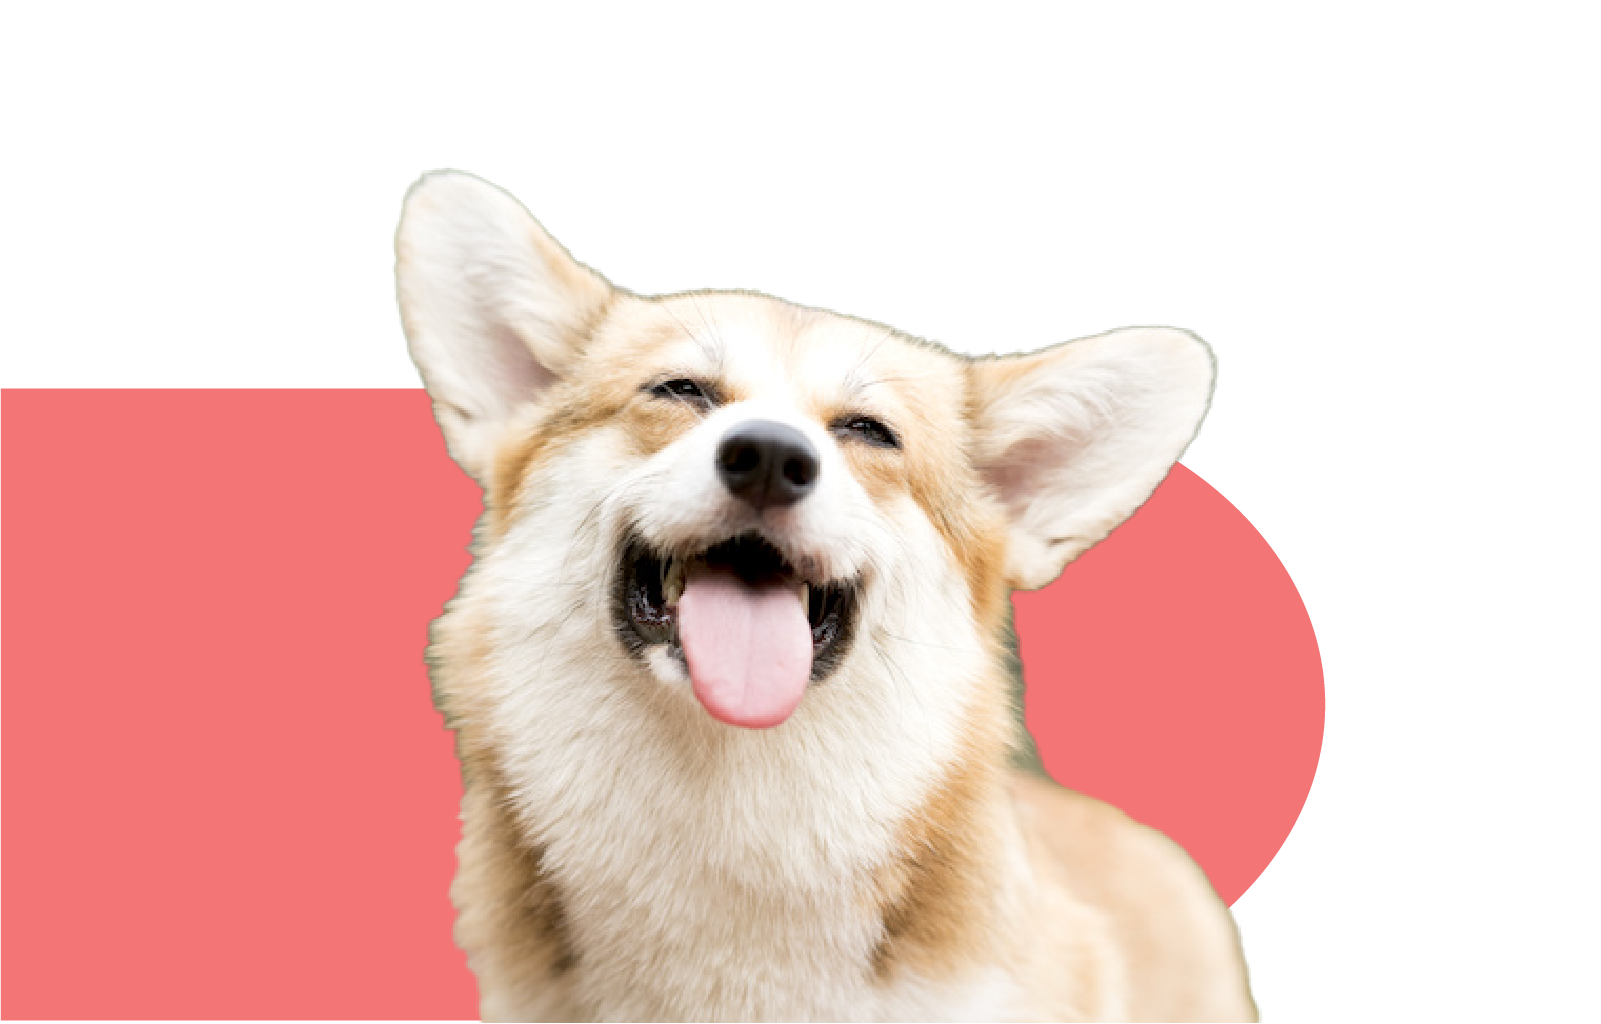
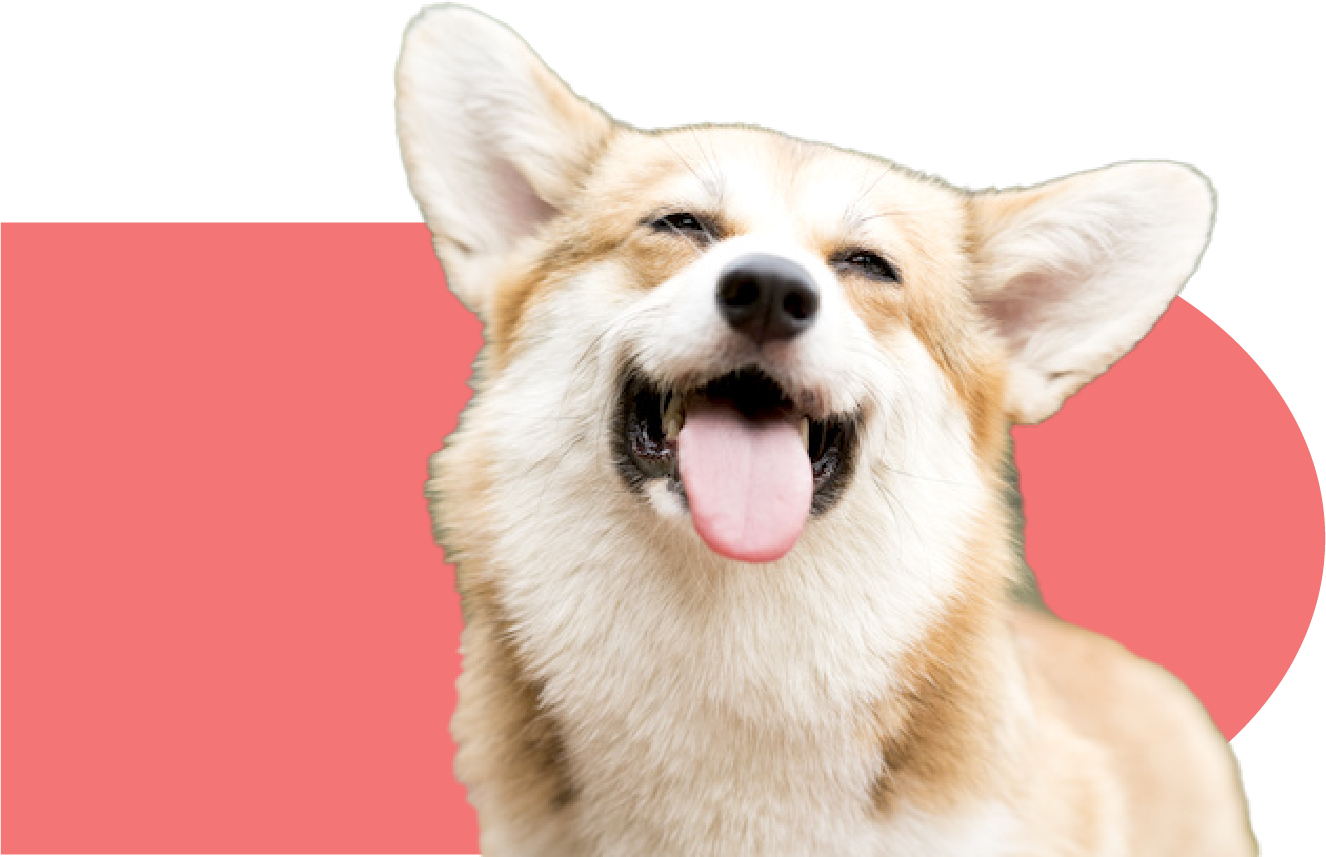
correction mise en page

diff --git a/index.html b/index.html
@@ -96,7 +96,7 @@
                 </div>
                 <div>
                     <figure>
-                        <img class="image__content" src="assets/images/maya.png" srcset="assets/images/maya@2x.png 2x" alt="Photo de moi et de Maya" loading="lazy" decoding="async" data-aos="fade-right" data-aos-duration="1500">
+                        <img class="image__content" src="assets/images/maya.png" srcset="assets/images/maya@2x.png 2x" alt="Photo de moi et de Maya" loading="lazy" decoding="async" data-aos="fade-left" data-aos-duration="1500">
                     </figure>
                 </div>
             </section>
@@ -110,14 +110,14 @@
                     <h3 class="title title--small">Rencontre avec L’ASBL</h3>
                     <p class="txt__content">Lors de mon passage à l’ASBL, j’ai pu rencontrer brièvement Romain De Jaegere (vice-président et coordinateur du centre), ainsi que Laurence Delcourt (responsable soin et des soigneurs) et quelques bénévoles. C’est avec Laurence que j’en ai appris plus sur le centre. Elle m’a expliqué que leur mission est d’accueillir et soigner les animaux sauvages blessés, malades ou en danger en vue de les restituer, après revalidation, à la vie sauvage dans leur habitat naturel.</p>
                     <figure>
-                        <img class="image__content image__content--logo" src="assets/images/logo-creaves-Namur.png" srcset="assets/images/logo-creaves-Namur@2x.png 2x" alt="Logo creaves namur" loading="lazy" decoding="async">
+                        <img class="image__rencontres" src="assets/images/logo-creaves-Namur.png" srcset="assets/images/logo-creaves-Namur@2x.png 2x" alt="Logo creaves namur" loading="lazy" decoding="async">
                     </figure>
                 </div>
                 <div>
                     <h3 class="title title--small">Réalisation d’enquête auprès des personnes</h3>
                     <p class="txt__content">Une fois ma rencontre avec l’association derrière moi, je ne savais plus trop dans quelle direction je devais emmener mon projet. Après pas mal de réflexion, j’ai eu une pensée qui m’a permis de m’en sortir: “Et si je n’étais pas le seul à vouloir venir en aide à ces animaux blessés? Et si comme moi, d’autres personnes veulent venir en aide aux animaux que ce soit les leur ou pas, mais ne savent juste pas comment faire? ”. Afin de valider ma théorie, j’ai développé un questionnaire qui me permettrait de savoir si mon idée était juste ou pas, mais aussi d’obtenir des données et des conclusions pour le moins intéressantes.</p>
                     <figure>
-                        <img class="image__content" src="assets/images/formulaire.png" srcset="assets/images/formulaire@2x.png 2x" alt="Image d'un formulaire" loading="lazy" decoding="async">
+                        <img class="image__rencontres" src="assets/images/formulaire.png" srcset="assets/images/formulaire@2x.png 2x" alt="Image d'un formulaire" loading="lazy" decoding="async">
                     </figure>
                 </div>
                 <div>
@@ -190,7 +190,7 @@
 
             </section>
 
-            <section id="modules" class="scroll-reveal content modules sectionpadding" data-aos="fade-up" data-aos-duration="1000">
+            <section id="modules" class="scroll-reveal modules sectionpadding" data-aos="fade-up" data-aos-duration="1000">
                 <h2 class="title title--medium">Modules</h2>
 
                 <p class="txt__content">Dans le but de mener à bien mon projet, il y aura une fonctionnalité principale et plusieurs fonctionnalités secondaires. </p>
@@ -251,25 +251,26 @@
             <section id="presentation" class="scroll-reveal content presentation sectionpadding" data-aos="fade-up" data-aos-duration="1000">
                 <h2 class="title title--medium">Présentation TFA</h2>
 
-                <p class="txt__content">Voici le lien vers les slides de présenation du projet</p>
+                <p class="txt__content">Voici le lien vers les slides de présentation du projet</p>
 
                 <figure>
                     <img class="image__content" src="assets/images/presentation.png" srcset="assets/images/presentation@2x.png 2x" alt="Prototype app" loading="lazy" decoding="async" data-aos="fade-right" data-aos-duration="1500">
-                </figure>>
+                </figure>
 
                 <a class="section-link" href="https://docs.google.com/presentation/d/13jYHjFimyvfOAy1qRVOk_QKoAJsZWluX4YKxJJLhGLg/edit?usp=sharing">Lien vers les slides de la présentation</a>
                 
             </section>
 
-            <section class=" scroll-reveal content conclusion sectionpadding" data-aos="fade-up" data-aos-duration="1000">
-                <h2 class="title title--medium">Conclusion</h2>
-
-                <figure>
-                    <img class="image__content" src="assets/images/image-intro.png" srcset="assets/images/image-intro@2x.png 2x" alt="Prototype app" loading="lazy" decoding="async" data-aos="fade-right" data-aos-duration="1500">
-                </figure>
-
-                <p class="txt__content">Pour conclure, j’espère qu’en développant cette idée, je pourrais venir en aide à toutes ces personnes qui risquent de rencontrer une situation d’urgence avec un animal. Mais aussi, à tous ces animaux qui pourraient avoir besoin d’un coup de main. Des situations d’urgences il en existe un très grand nombre chez l’homme. Cependant, il en existe tout autant chez les bêtes. Voilà pourquoi ce projet me tient à cœur. Nombreuses fois j’ai vu des animaux souffrir sans savoir comment agir ni quoi faire. Néanmoins, j’espère avec l’aide de ce guide, de nombreuses personnes ainsi que moi-même, nous pourrons enfin réagir à temps et sauver la vie de tous ces animaux qui ne demandent qu’une chose, qu’on leur tende la main.</p>
-
+            <section class="scroll-reveal content conclusion" data-aos="fade-up" data-aos-duration="1000">
+                <div class=" sectionpadding">
+                    <h2 class="title title--medium">Conclusion</h2>
+                    <p class="txt__content">Pour conclure, j’espère qu’en développant cette idée, je pourrais venir en aide à toutes ces personnes qui risquent de rencontrer une situation d’urgence avec un animal. Mais aussi, à tous ces animaux qui pourraient avoir besoin d’un coup de main. Des situations d’urgences il en existe un très grand nombre chez l’homme. Cependant, il en existe tout autant chez les bêtes. Voilà pourquoi ce projet me tient à cœur. Nombreuses fois j’ai vu des animaux souffrir sans savoir comment agir ni quoi faire. Néanmoins, j’espère avec l’aide de ce guide, de nombreuses personnes ainsi que moi-même, nous pourrons enfin réagir à temps et sauver la vie de tous ces animaux qui ne demandent qu’une chose, qu’on leur tende la main.</p>
+                </div>
+                <div>
+                    <figure>
+                        <img class="image__content" src="assets/images/image-intro.png" srcset="assets/images/image-intro@2x.png 2x" alt="Prototype app" loading="lazy" decoding="async" data-aos="fade-right" data-aos-duration="1500">
+                    </figure>
+                </div>
             </section>
 
             <button class="scroll-up-button">

diff --git a/assets/style/main.css b/assets/style/main.css
@@ -150,9 +150,6 @@
 .sectionpadding {
   padding: 18px; }
 
-.custom-cursor {
-  cursor: url(../images/curseur-patte.png), auto; }
-
 .introduction {
   min-height: 90vh;
   align-items: center;
@@ -161,13 +158,14 @@
 .image__intro {
   width: 100%;
   height: auto;
-  position: relative;
-  left: 0;
-  transition: left 0.3s ease-out; }
+  position: relative; }
 
 .image__content {
-  margin: 20px 0;
   width: 100%;
+  height: auto; }
+
+.image__rencontres {
+  width: 25%;
   height: auto; }
 
 .btn-experience {
@@ -175,21 +173,17 @@
   text-align: center;
   background-color: var(--color-primary);
   margin: 40px 0;
-  padding: 8px 12px;
+  padding: 10px 25px;
   border-radius: 20px;
   color: var(--color-bg);
   text-decoration: none; }
 
-.bouton--style :hover {
+.btn-experience :hover {
   background-color: var(--color-bg);
   color: var(--color-primary); }
 
 .motivation {
   background-color: var(--color-secondary); }
-
-.rencontres {
-  display: flex;
-  align-content: center; }
 
 .more {
   background-color: #2d4473;
@@ -202,14 +196,21 @@
 .solutions {
   background-color: var(--color-fourth); }
 
+.slider__container {
+  display: flex;
+  flex-direction: column;
+  align-items: center; }
+
+.modules {
+  align-items: center; }
+
 .icone {
-  width: 130%;
+  width: 20%;
   height: auto; }
 
 .img__slide {
-  width: 80%;
-  height: auto;
-  margin: 30px 0; }
+  width: 30%;
+  height: 30%; }
 
 .motivation {
   padding: 0; }
@@ -313,7 +314,7 @@
 
 @media screen and (min-width: 1025px) {
   .image__content {
-    width: 60%;
+    width: 100%;
     height: auto;
     margin: 0; }
   .image__content--logo {
@@ -324,8 +325,7 @@
     font-weight: 600;
     font-size: 18px;
     color: #2d4473;
-    margin: 10px 0;
-    cursor: url(../images/curseur-patte.png), auto; } }
+    margin: 10px 0; } }
 
 /* css grid*/
 .content {
@@ -450,29 +450,3 @@
     color: var(--color-bg); } }
 
 /* slider */
-@media screen and (min-width: 1025px) {
-  .slider__container {
-    overflow: hidden; }
-  .slider {
-    display: flex;
-    overflow-x: auto;
-    scroll-snap-type: x mandatory; }
-  .slide {
-    flex: 0 0 100%;
-    scroll-snap-align: start;
-    position: relative; }
-  .slide img {
-    width: 40%;
-    height: auto; }
-  .slide-content {
-    position: absolute;
-    top: 50%;
-    left: 70%;
-    transform: translate(-50%, -50%);
-    text-align: center; }
-  .slide-content img {
-    width: 50px;
-    height: 50px;
-    margin-bottom: 10px; }
-  .slide-content details {
-    margin-top: 10px; } }

diff --git a/assets/style/_body.scss b/assets/style/_body.scss
@@ -21,10 +21,7 @@
 
 .sectionpadding{
     padding: 18px;
-}
 
-.custom-cursor{
-    cursor: url(../images/curseur-patte.png), auto;
 }
 
 .introduction{
@@ -37,32 +34,33 @@
     width: 100%;
     height: auto;
     position: relative;
-    left: 0;
-    transition: left 0.3s ease-out;
 }
 
 
-
 .image__content{
-    margin: 20px 0;
     width: 100%;
+    height: auto;
+}
+
+.image__rencontres{
+    width: 25%;
     height: auto;
 }
 
 
 
-  .btn-experience {
+.btn-experience {
     font-family:'Cabin', sans-serif ;
     text-align: center;
     background-color: var(--color-primary);
     margin: 40px 0;
-    padding: 8px 12px; 
+    padding: 10px 25px; 
     border-radius: 20px;
     color: var(--color-bg);
     text-decoration: none;
 }
 
-.bouton--style :hover{
+.btn-experience :hover{
     background-color: var(--color-bg);
     color: var(--color-primary);
 }
@@ -71,10 +69,6 @@
     background-color: var(--color-secondary);
 }
 
-.rencontres{
-    display: flex;
-    align-content: center;
-}
 
 .more{
     background-color: #2d4473;
@@ -89,21 +83,30 @@
     background-color: var(--color-fourth);
 }
 
+.slider__container{
+    display: flex;
+    flex-direction: column;
+    align-items: center;
+}
+
+.modules{
+    align-items: center;
+}
 
 .icone{
-    width: 130%;
+    width: 20%;
     height: auto;
 }
 
 .img__slide{
-    width: 80%;
-    height: auto;
-    margin: 30px 0;
+    width: 30%;
+    height: 30%;
 }
 
 .motivation{
     padding: 0;
 }
+
 
 
 /* scroll up bouton */
@@ -227,7 +230,7 @@
 @media screen and (min-width: 1025px) {
 
     .image__content{
-        width: 60%;
+        width: 100%;
         height: auto;
         margin: 0;
     }
@@ -244,7 +247,6 @@
         font-size: 18px;
         color: #2d4473;
         margin: 10px 0;
-        cursor: url(../images/curseur-patte.png), auto;
     }
 
 }

diff --git a/assets/style/_anim.scss b/assets/style/_anim.scss
@@ -3,44 +3,7 @@
 
 @media screen and (min-width: 1025px) {
 
- .slider__container{
-    overflow: hidden;
-  }
 
- .slider {
-    display: flex;
-    overflow-x: auto;
-    scroll-snap-type: x mandatory;
-  }
-  
-  .slide {
-    flex: 0 0 100%;
-    scroll-snap-align: start;
-    position: relative;
-  }
-  
-  .slide img {
-    width: 40%;
-    height: auto;
-  }
-  
-  .slide-content {
-    position: absolute;
-    top: 50%;
-    left: 70%;
-    transform: translate(-50%, -50%);
-    text-align: center;
-  }
-  
-  .slide-content img {
-    width: 50px;
-    height: 50px;
-    margin-bottom: 10px;
-  }
-  
-  .slide-content details {
-    margin-top: 10px;
-  }
 
 }
   
